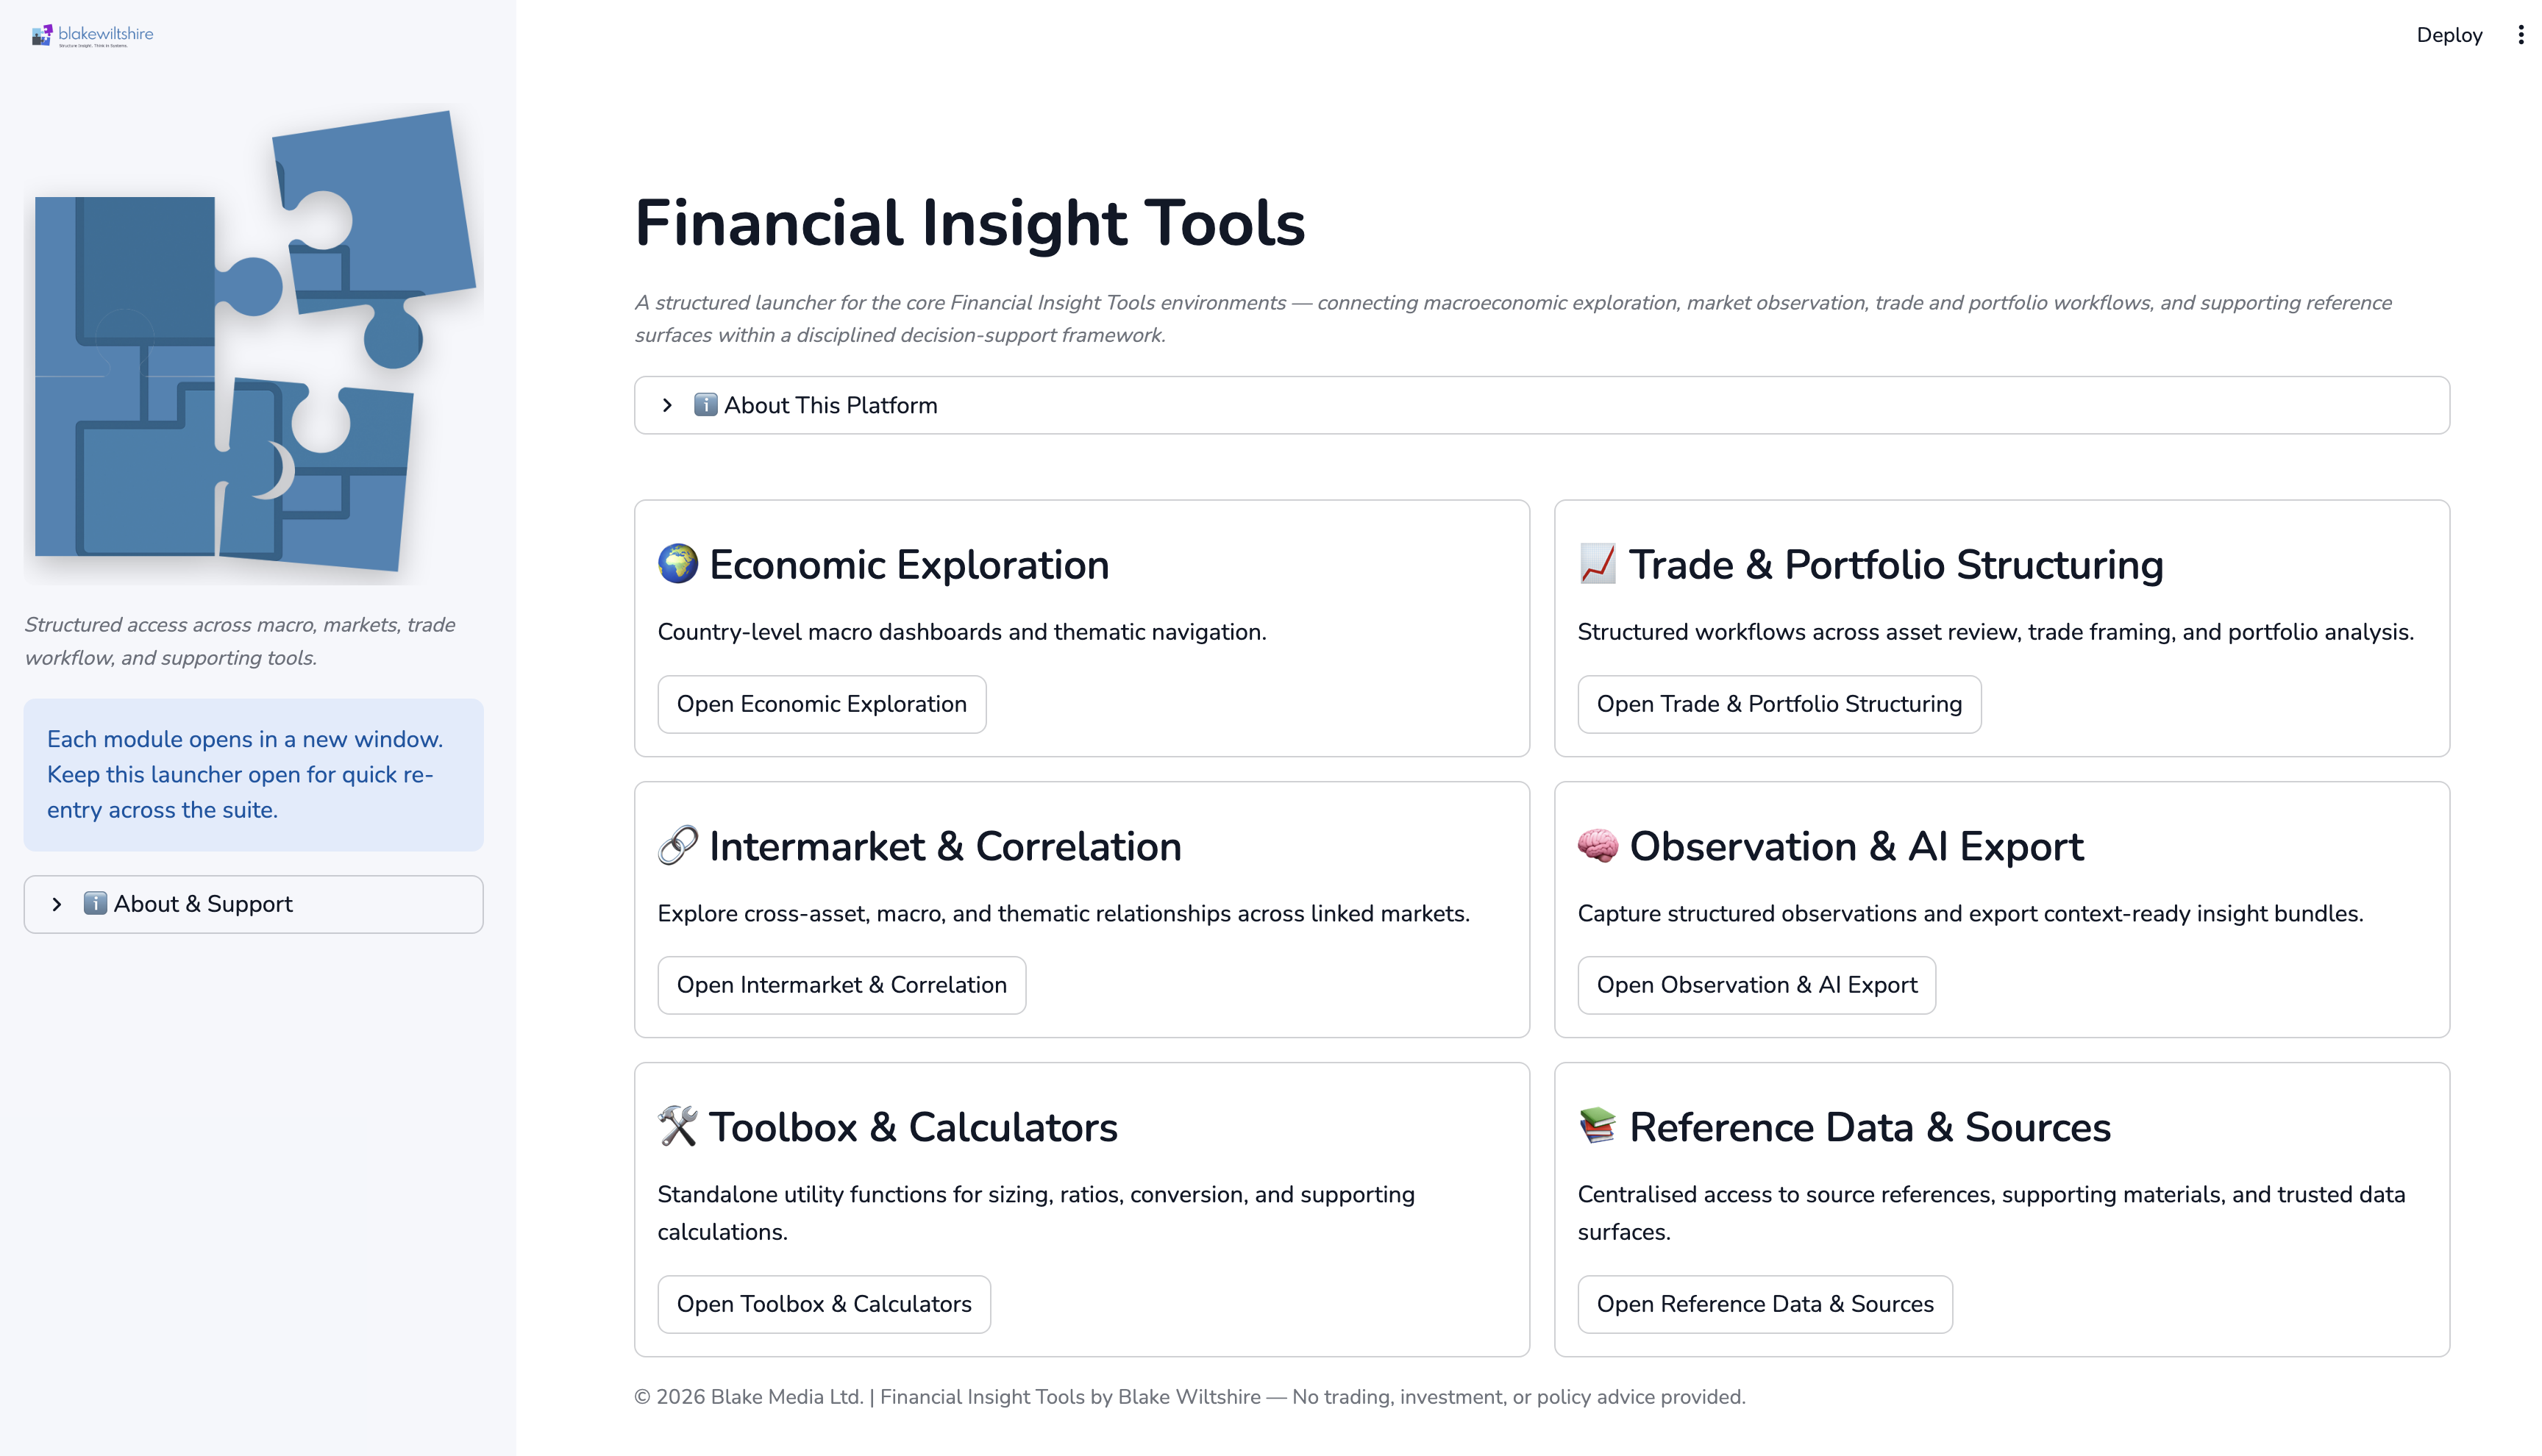
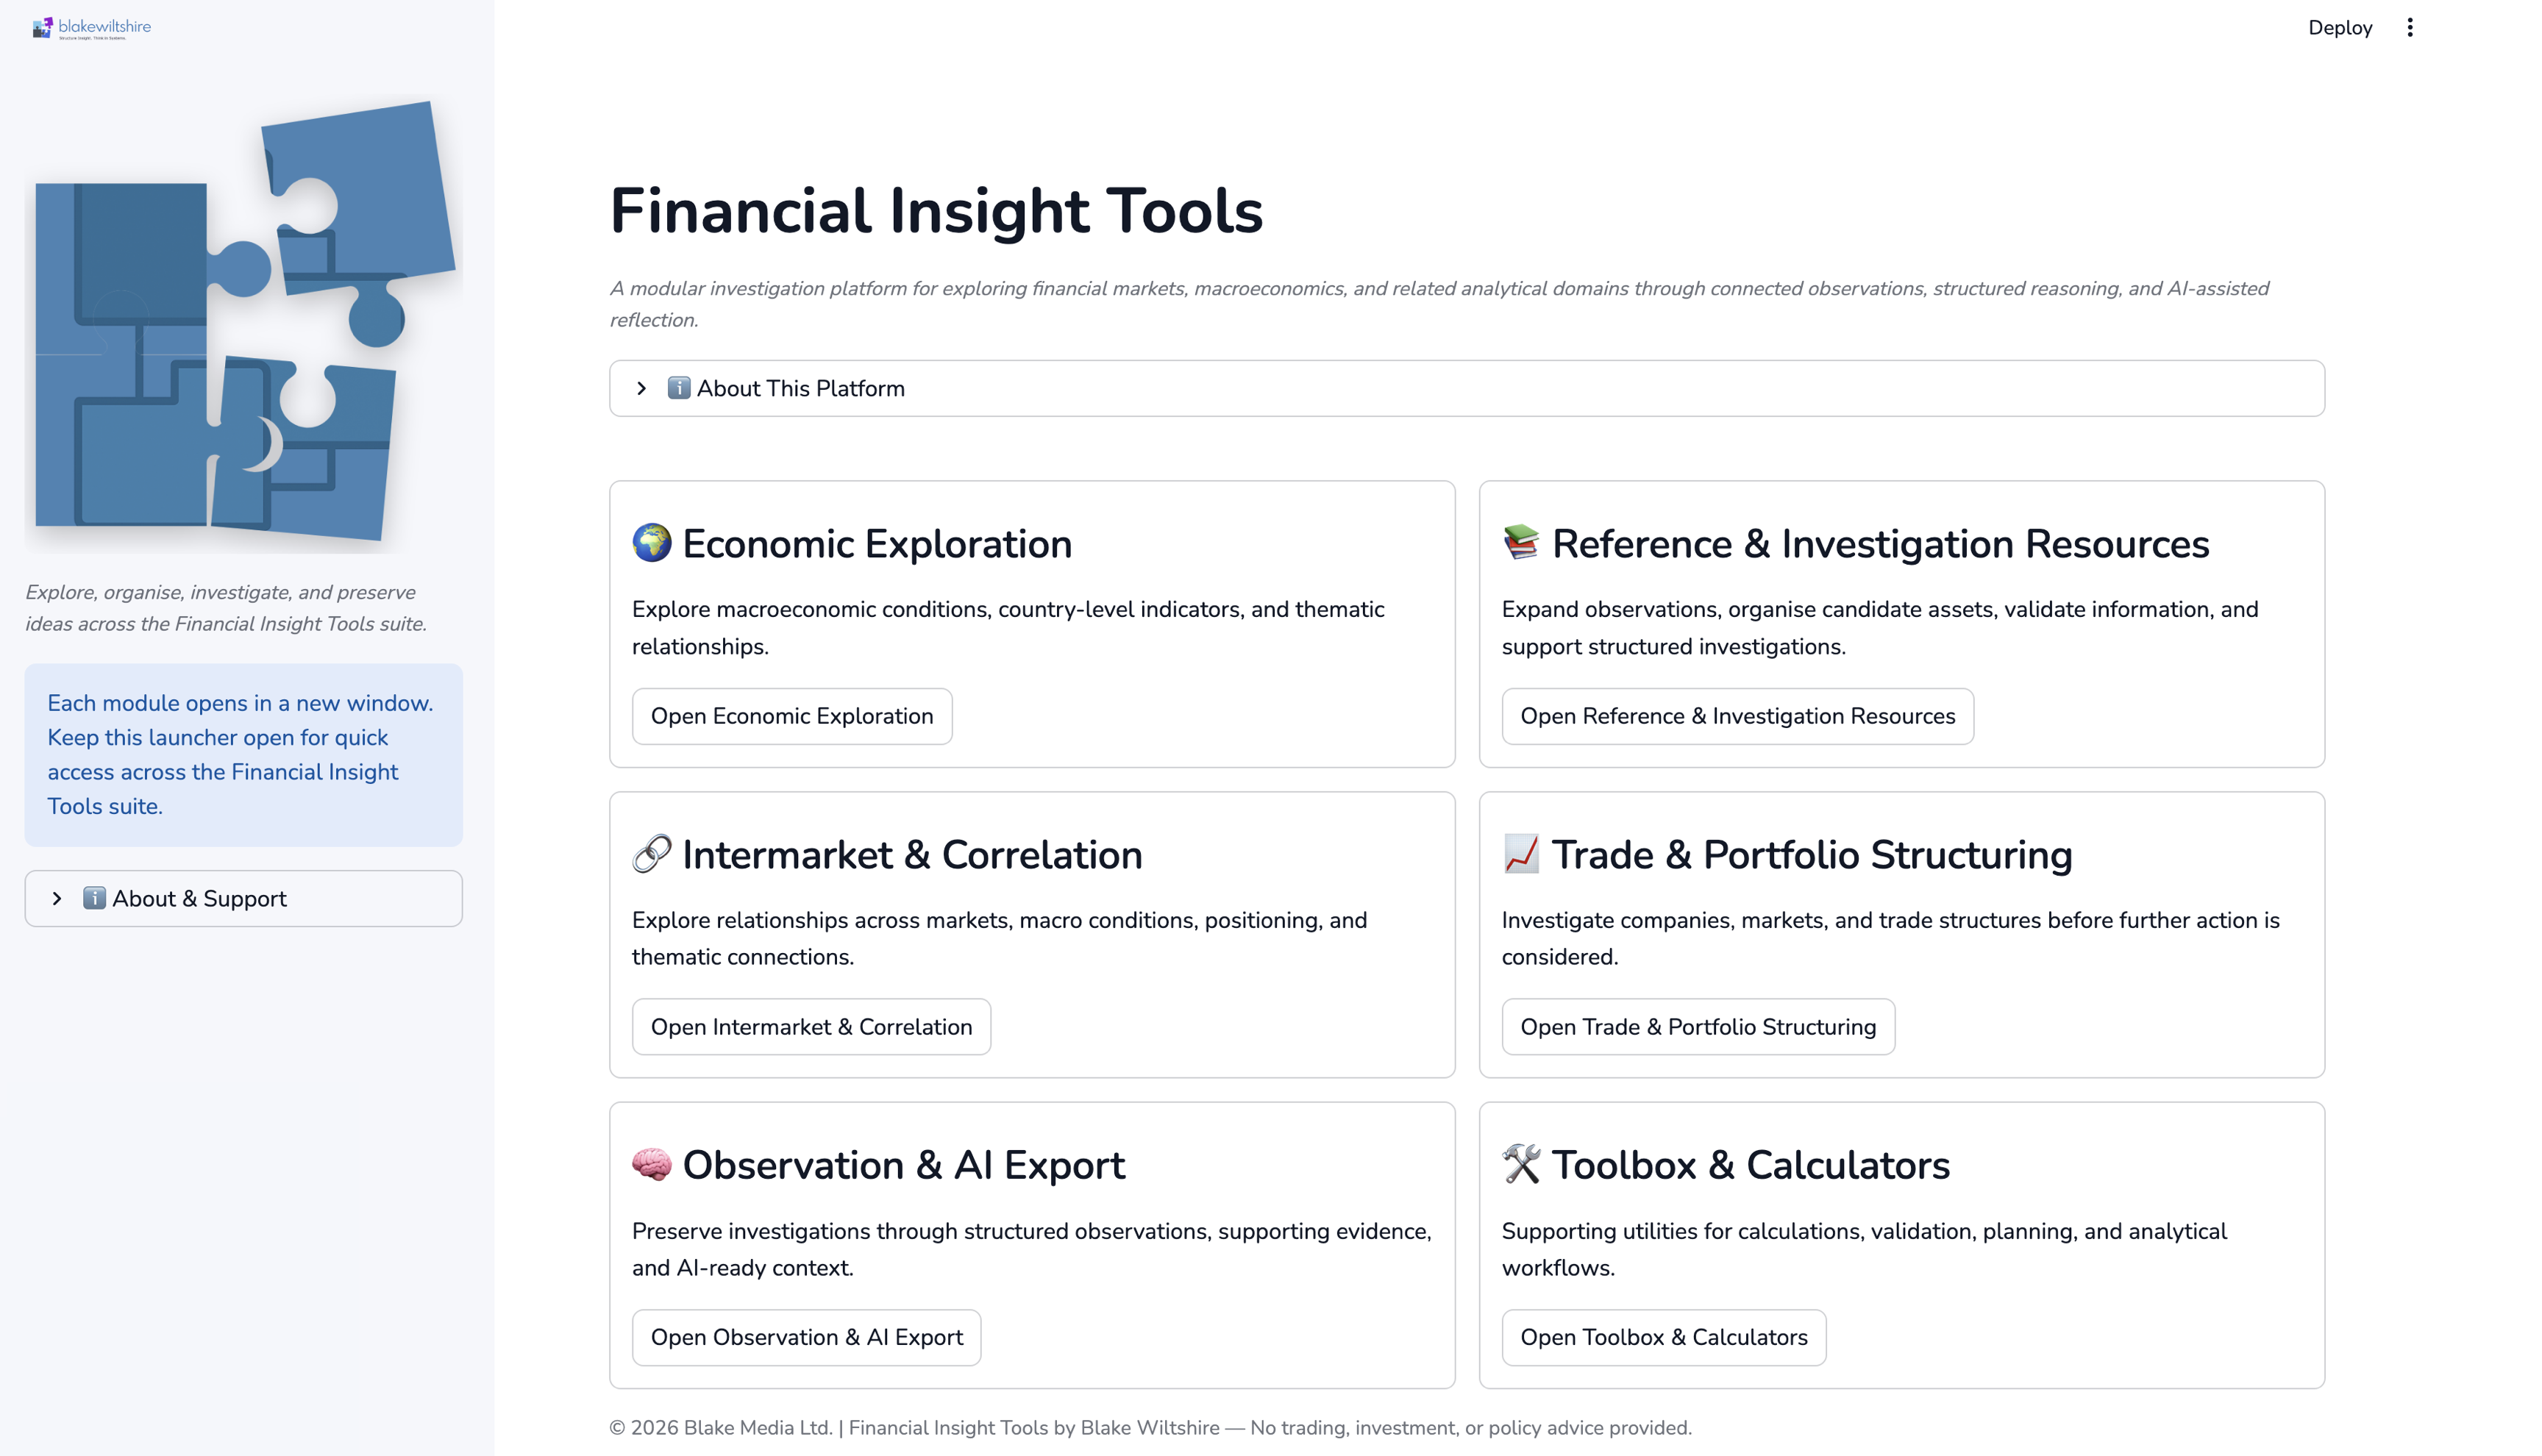
Latest updates

diff --git a/README.md b/README.md
@@ -1,8 +1,14 @@
 # Financial Insight Tools (FIT) — Structured Financial Reasoning Environment
 
-Financial Insight Tools (FIT) is a modular decision-support environment for building structured investigations across financial markets, macroeconomics, company analysis, and related analytical domains. Economic signals, market observations, supporting evidence, and human reasoning remain connected throughout the investigation, allowing context to evolve as new information becomes available. AI contributes through structured investigation review while human judgement remains central to the decision-making process.
+Financial Insight Tools (FIT) is a modular decision-support environment for building structured investigations across financial markets, macroeconomics, company analysis, and related analytical domains. Observations, evidence, and reasoning remain connected as investigations evolve, allowing context to develop alongside new information. AI contributes through structured investigation review while human judgement remains central to interpretation and decision-making.
 
 FIT provides consistent structure across relationship exploration, distribution analysis, trade modelling, macroeconomic exploration, thematic correlation, relative macro transmission, positioning analysis, company structure review, market structure review, and observation capture so that information can be organised, examined, aligned, and preserved as structured investigations that can be revisited, extended, documented, or reviewed through AI-assisted investigation workflows.
+
+## Learn More
+
+To understand the investigation philosophy behind Financial Insight Tools (FIT):
+
+- [Why We Built Financial Insight Tools (FIT)](https://blakewiltshire.substack.com/p/financial-insight-tools-fit)
 
 ## Companion References (PDF)
 
@@ -101,6 +107,7 @@ FIT is structured across connected analytical layers.
 ### Relationship & Investigation
 
 - Relationship Manager
+- Reference & Investigation Resources
 
 ### Financial Application
 
@@ -112,10 +119,10 @@ FIT is structured across connected analytical layers.
 - Price Action & Trend Confirmation
 - Watchlist, Trade Structuring & Risk Planning
 - Spread Ratio Insights
-- Cross Asset Correlation
+- Cross-Asset Correlation
 - Live Portfolio Monitor
 
-### Investigation Workflow
+### Investigation Preservation
 
 - Observation & AI Export
 
@@ -255,22 +262,27 @@ Observation & AI Export consolidates Decision Support Snapshots, structured obse
 
 ## Where to Start
 
-- **Market & Volatility Scanner** — distribution structure and regime context
-- **Company Structure Review** — valuation, profitability, efficiency, and comparative business structure analysis
-- **Market Structure Review** — ownership, float, supply events, liquidity pathways, and participation structure
-- **Trade Timing & Confirmation** — multi-timeframe alignment, confirmation conditions, and timing context
-- **Price Action & Trend Confirmation** — trend structure, momentum characteristics, and directional behaviour
-- **Trade Structuring & Risk Planning** — scenario modelling, exposure calibration, and risk framing
+Investigations may begin from any module. Different analytical questions naturally lead to different investigation paths, while observations, evidence, and reasoning remain connected throughout the process.
 
-Additional system-wide exploration modules include:
+### Markets & Companies
 
-- **Economic Exploration** — macro system structure and country-level diagnostics
-- **Thematic Correlation** — relationship mapping across macroeconomic themes
-- **Relative Macro Transmission** — exogenous differential analysis and regime divergence
-- **Positioning & Crowding** — leveraged positioning, percentile extremes, and positioning turns
-- **Observation & AI Export** — Decision Support Snapshots, structured observations, investigation bundles, AI personas, and AI-assisted investigation workflows.
+- **Market & Volatility Scanner** — distribution structure, volatility, and market behaviour
+- **Company Structure Review** — valuation, profitability, efficiency, and comparative business analysis
+- **Market Structure Review** — ownership, supply, participation, and liquidity structure
 
-Each module presents a different perspective on the same underlying analytical framework without fragmenting or redefining it.
+### Macroeconomic & System Exploration
+
+- **Economic Exploration** — macroeconomic indicators and country-level diagnostics
+- **Thematic Correlation** — relationships across macroeconomic themes
+- **Relative Macro Transmission** — structural transmission between economies and markets
+- **Positioning & Crowding** — leveraged positioning, percentile extremes, and market participation
+
+### Trade Planning & Investigation
+
+- **Trade Timing & Confirmation** — multi-timeframe alignment and confirmation
+- **Price Action & Trend Confirmation** — trend, momentum, and directional structure
+- **Trade Structuring & Risk Planning** — scenario planning, exposure, and risk calibration
+- **Observation & AI Export** — preserve observations, assemble investigation bundles, and support AI-assisted review
 
 ## Structure (High-Level)
 